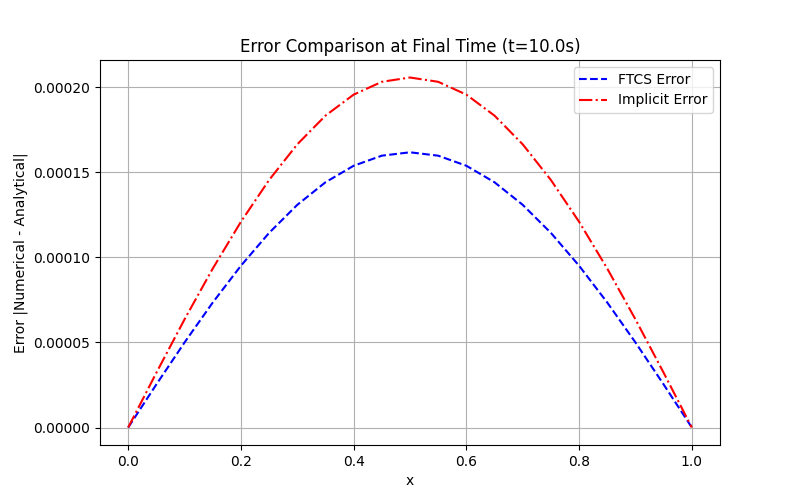
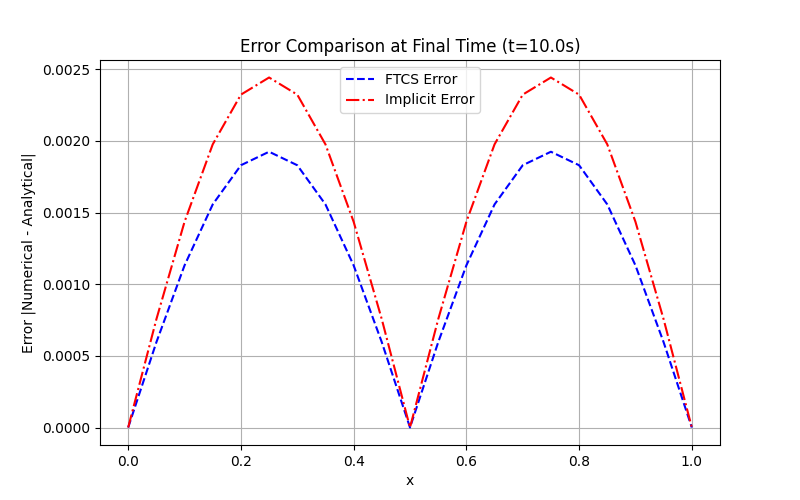
changed function to 2 pi x in tut3

diff --git a/Assignment 3/main.py b/Assignment 3/main.py
@@ -16,12 +16,12 @@ r = gamma * dt / dx**2
 x = np.linspace(0, L, N_x + 1)
 t = np.linspace(0, T, N_t + 1)
 
-# Initial condition
-u_initial = np.sin(np.pi * x)
+# Initial condition: u(x, 0) = sin(2*pi*x)
+u_initial = np.sin(2 * np.pi * x)
 
 # Analytical solution function
 def analytical_solution(x, t):
-    return np.sin(np.pi * x) * np.exp(-np.pi**2 * gamma * t)
+    return np.sin(2 * np.pi * x) * np.exp(-4 * np.pi**2 * gamma * t)
 
 # --------------------------
 # Forward Time Central Space (FTCS - Explicit)
